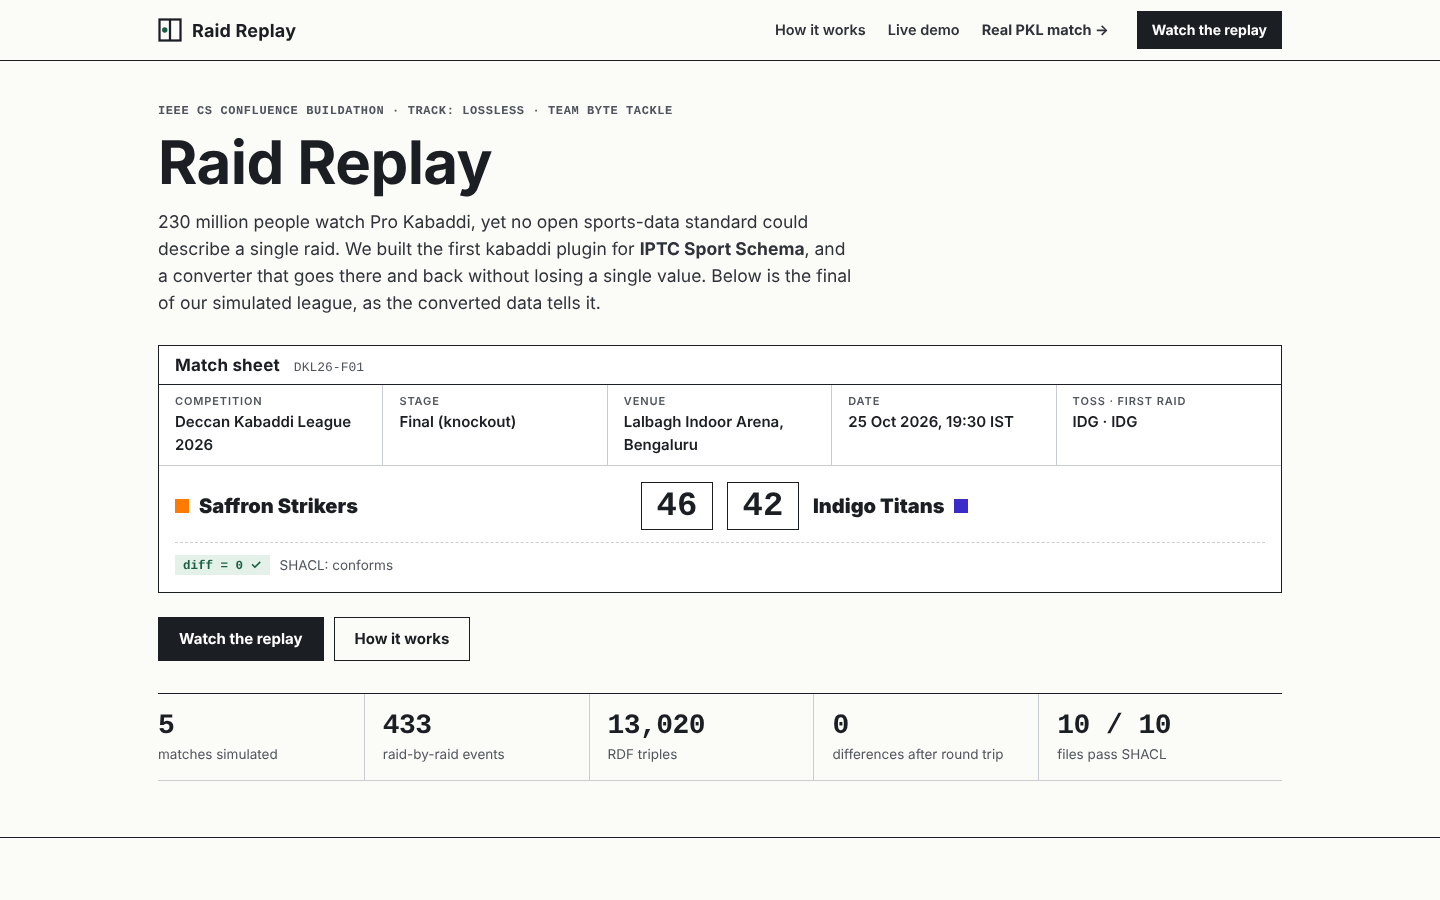
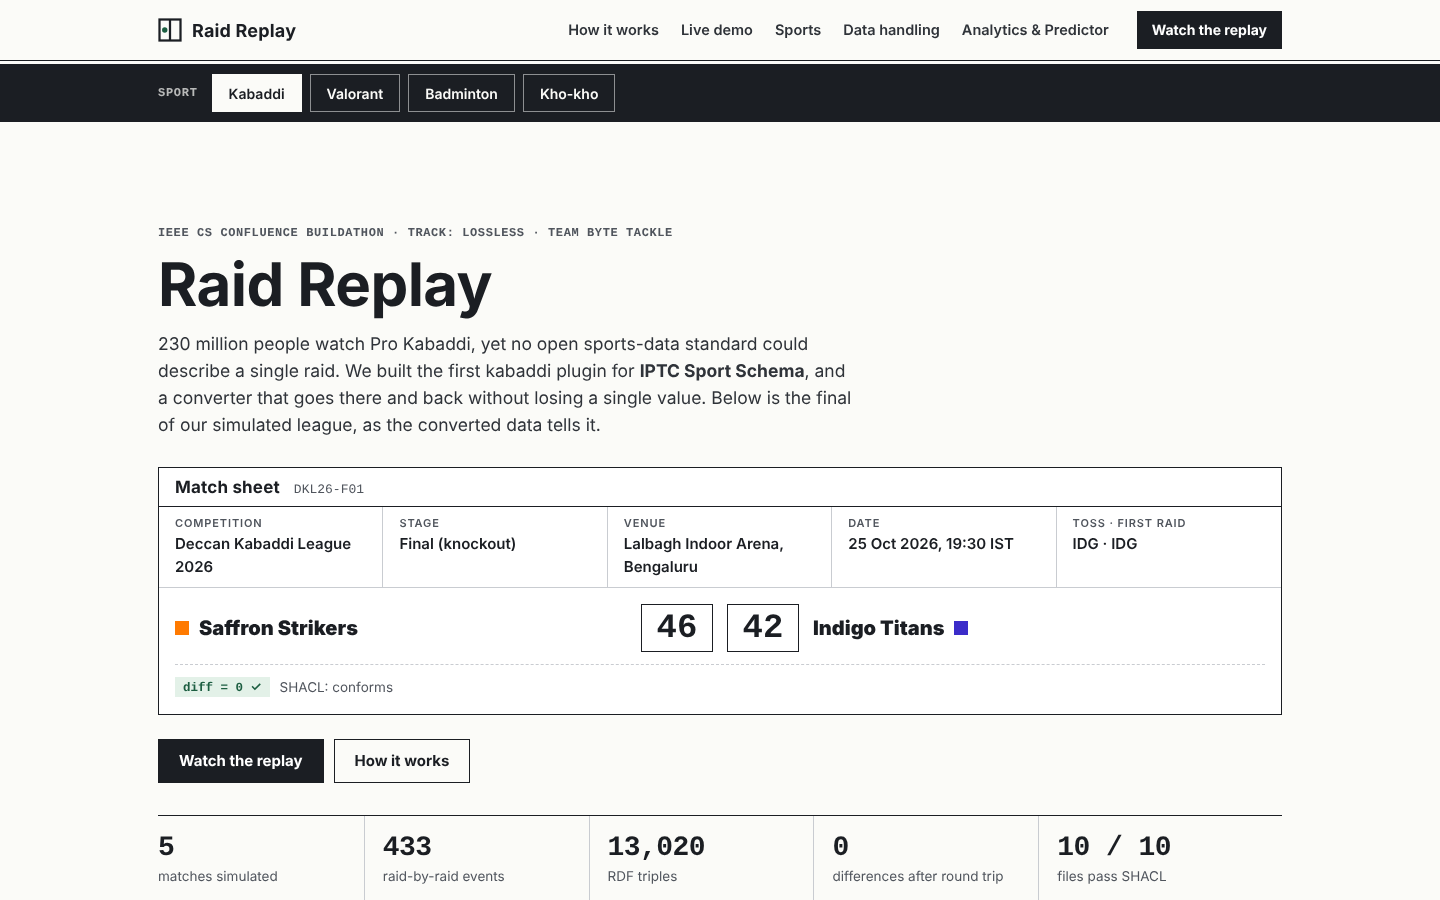
Site check covers all sports, code tabs and data handling; new screenshots

diff --git a/site/check_site.py b/site/check_site.py
@@ -1,6 +1,9 @@
 """Open site/index.html over file:// in headless Chromium, check for console errors,
 and save screenshots to screenshots/.
 
+Also checks the other sports (sport bar, animated stage, code tabs, in-page diff 0 for every sport),
+the data handling panel, that the word "fictional" is not on the page, and site/real.html if it was built.
+
     python site/check_site.py
 """
 from __future__ import annotations
@@ -96,6 +99,7 @@ def main() -> int:
                 problems.append(f"{name}: {m}")
             print(f"[{name}] console messages: {len(msgs)}, problems: {len(bad)}")
             ctx.close()
+        problems += check_sports(browser)
         real = ROOT / "site" / "real.html"
         if real.exists():
             problems += check_real(browser, real)
@@ -106,6 +110,67 @@ def main() -> int:
         print("PROBLEM:", pr)
     print("OK" if not problems else f"{len(problems)} problem(s)")
     return 0 if not problems else 1
+
+
+def check_sports(browser) -> list:
+    """Sport bar switches between kabaddi and every other sport; each stage plays without errors,
+    its code tabs are filled, every sport rebuilds from JSON-LD with diff 0, and the quality panel
+    shows one row per sport."""
+    problems = []
+    for name, w, h in (("desktop", 1440, 900), ("phone", 390, 844)):
+        ctx = browser.new_context(viewport={"width": w, "height": h}, device_scale_factor=1 if name == "desktop" else 2)
+        page = ctx.new_page()
+        msgs = []
+        page.on("console", lambda m, msgs=msgs: msgs.append((m.type, m.text)))
+        page.on("pageerror", lambda e, msgs=msgs: msgs.append(("pageerror", str(e))))
+        page.goto(URL)
+        page.wait_for_timeout(1000)
+        sports = page.evaluate("window.RaidReplaySports ? RaidReplaySports.sports : []")
+        if not sports:
+            problems.append(f"{name}: no other sports on the page")
+        for sel in ("#sports", "#quality", ".sport-bar"):
+            if page.locator(sel).count() != 1:
+                problems.append(f"{name}: missing {sel}")
+        if "fictional" in page.inner_text("body").lower():
+            problems.append(f"{name}: the word 'fictional' is on the page")
+        for sp, d in page.evaluate("RaidReplaySports.diffAll()").items():
+            if d["diffs"] != 0 or not d["fields"]:
+                problems.append(f"{name}: {sp} JSON-LD rebuild diff {d}")
+        page.add_style_tag(content=".nav{display:none!important}")
+        for sp in sports:
+            page.click(f'.sport-bar button[data-s="{sp}"]')
+            page.wait_for_timeout(400)
+            if not page.evaluate("document.body.classList.contains('mode-other')"):
+                problems.append(f"{name}: {sp} did not switch the page to the other-sport view")
+            page.evaluate("document.getElementById('stage').scrollIntoView({block:'start'})")
+            page.click("#stPlay")
+            page.wait_for_timeout(4500)
+            page.click("#stPlay")
+            tabs = page.evaluate("[...document.querySelectorAll('#stCode .tab-panel code')].map(c=>c.textContent.length)")
+            note = page.inner_text("#stNote")
+            if len(tabs) != 3 or min(tabs) < 40 or not note:
+                problems.append(f"{name}: {sp} code tabs not filled ({tabs}, note={note!r})")
+            sw = page.evaluate("document.documentElement.scrollWidth")
+            if sw > w:
+                problems.append(f"{name}: {sp} horizontal overflow ({sw}px > {w}px)")
+            page.locator(".st-wrap").screenshot(path=str(OUT / f"{name}-stage-{sp}.png"))
+            print(f"[{name}] {sp}: tabs={tabs} note={note!r}")
+        # back to kabaddi: the original sections come back
+        page.click('.sport-bar button[data-s="kabaddi"]')
+        page.wait_for_timeout(400)
+        if page.evaluate("document.body.classList.contains('mode-other')") or not page.locator("#demo").is_visible():
+            problems.append(f"{name}: switching back to kabaddi did not restore the kabaddi view")
+        page.evaluate("document.querySelectorAll('.reveal').forEach(e=>e.classList.add('in'))")
+        rows = page.locator("#quality .q-table:not(.q-ex) tbody tr").count()
+        if rows < len(sports):
+            problems.append(f"{name}: quality panel has {rows} rows for {len(sports)} sports")
+        page.locator("#quality").screenshot(path=str(OUT / f"{name}-quality.png"))
+        page.locator("#sports").screenshot(path=str(OUT / f"{name}-sports.png"))
+        bad = [m for m in msgs if m[0] in ("error", "pageerror", "warning")]
+        problems += [f"{name} sports: {m}" for m in bad]
+        print(f"[{name}] sports checked: {sports}, quality rows={rows}, problems={len(bad)}")
+        ctx.close()
+    return problems
 
 
 def check_real(browser, real: Path) -> list:
